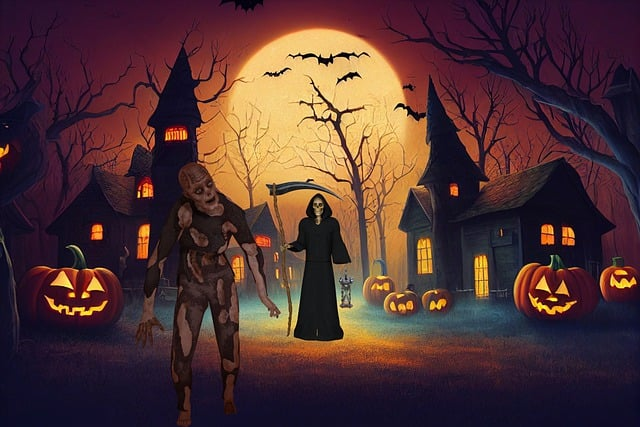
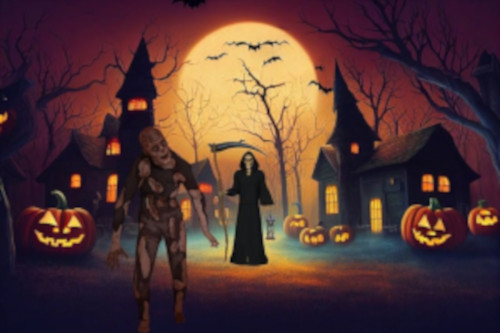
.

diff --git a/index.html b/index.html
@@ -44,6 +44,7 @@
         <p>As <strong>abóboras</strong> com velas acesas, servem para iluminar o caminho dos mortos. O seu uso surge da modificação de uma lenda irlandesa, a lenda de Jack O' Lantern, alma de um homem que não foi aceito nem no céu, nem no inferno e que, assim, andava a varguear na terra, iluminando as noites com um nabo.</p>
 
         <picture class="img">
+            <source media="(max-width: 550px )" srcset="imagens/abobora (2).jpg">
             <img src="imagens/abobora.jpg" alt="Abóbora">
         </picture>
 
@@ -55,7 +56,8 @@
 
         <p>Os <strong>zumbis</strong> são cadáveres em busca de vingança.</p>
 
-        <picture class="img">
+        <picture>
+            <source media="(max-width: 550px)" srcset="imagens/zumbi (2).jpg">
             <img src="imagens/zumbi (1).jpg" alt="Zumbi">
         </picture>
 
